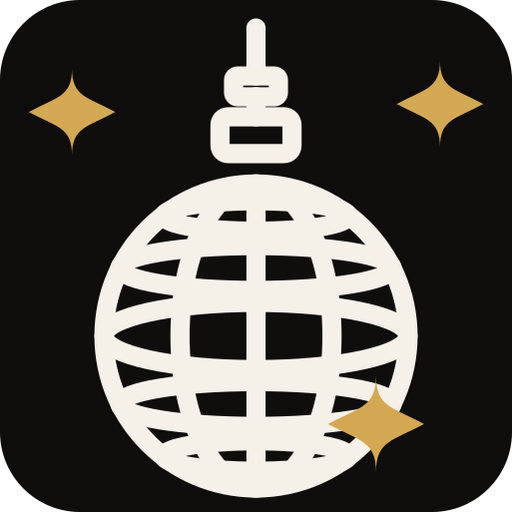
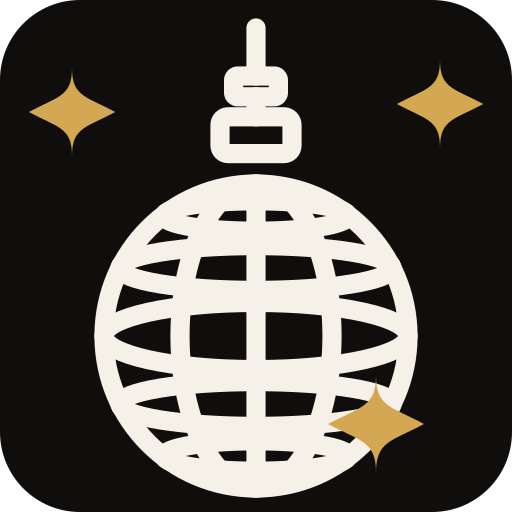
feat(acts): optional class, duration, and live SSE payloads
- Nullable Act.classId and optional duration (seconds); migrations drop priority column

- Order UI: duration on create/edit, acts without class shown as Sans cours

- APIs and public/live views include duration; smaller icon-512 asset

Changed region(s): [[0.4688, 0.3125, 0.5312, 0.3438], [0.5312, 0.4062, 0.5625, 0.4375], [0.4375, 0.4062, 0.4688, 0.4375]]

diff --git a/src/app/(app)/shows/[id]/order/OrderClient.tsx b/src/app/(app)/shows/[id]/order/OrderClient.tsx
@@ -21,6 +21,7 @@ import { CSS } from "@dnd-kit/utilities"
 import Alert from "@mui/material/Alert"
 import Box from "@mui/material/Box"
 import Button from "@mui/material/Button"
+import Chip from "@mui/material/Chip"
 import CircularProgress from "@mui/material/CircularProgress"
 import Divider from "@mui/material/Divider"
 import IconButton from "@mui/material/IconButton"
@@ -43,7 +44,7 @@ import FormDialog from "@/components/FormDialog"
 import { useEntityDialog } from "@/hooks/useEntityDialog"
 import type { Act, ActPosition, Class, Show, Teacher } from "@prisma/client"
 
-type ActWithClass = Act & { class: Class & { teacher: Teacher } }
+type ActWithClass = Act & { class: (Class & { teacher: Teacher }) | null }
 
 type ShowWithActs = Show & {
   acts: ActWithClass[]
@@ -55,7 +56,7 @@ interface Props {
   classes: Class[]
 }
 
-const emptyForm = { name: "", classId: "" }
+const emptyForm = { name: "", classId: "", durationMin: "", durationSec: "" }
 
 // Locked acts stay at their indices; unlocked acts flow around them.
 function applyDragWithLocks(
@@ -163,7 +164,7 @@ function SortableActRow({
         <Box>
           <Typography variant="body1">{act.name}</Typography>
           <Typography variant="caption" color="text.secondary">
-            {act.class.name} · {act.class.schedule} · {act.class.teacher.firstName} {act.class.teacher.lastName}
+            {act.class ? `${act.class.name} · ${act.class.schedule} · ${act.class.teacher.firstName} ${act.class.teacher.lastName}` : "Sans cours"}
           </Typography>
         </Box>
       </Box>
@@ -184,6 +185,12 @@ export default function OrderClient({ show, classes }: Props) {
   const [deleteError, setDeleteError] = useState<string | null>(null)
   const [deleteLoading, setDeleteLoading] = useState(false)
   const deleteDialog = useEntityDialog(show.acts)
+
+  // ---- Edit duration ----
+  const editDialog = useEntityDialog(show.acts)
+  const [editForm, setEditForm] = useState({ durationMin: "", durationSec: "" })
+  const [editError, setEditError] = useState<string | null>(null)
+  const [editLoading, setEditLoading] = useState(false)
 
   // ---- Order mode ----
   const [editMode, setEditMode] = useState(false)
@@ -237,6 +244,32 @@ export default function OrderClient({ show, classes }: Props) {
     setDeleteError(null)
   }
 
+  function openEdit(act: ActWithClass) {
+    editDialog.open(act)
+    setEditForm({
+      durationMin: act.duration != null ? String(Math.floor(act.duration / 60)) : "",
+      durationSec: act.duration != null ? String(act.duration % 60) : "",
+    })
+    setEditError(null)
+  }
+
+  async function handleEdit() {
+    setEditLoading(true)
+    setEditError(null)
+    const min = parseInt(editForm.durationMin || "0", 10)
+    const sec = parseInt(editForm.durationSec || "0", 10)
+    const duration = (min || sec) ? min * 60 + sec : null
+    const res = await fetch(`/api/shows/${show.id}/acts/${editDialog.selected!.id}`, {
+      method: "PATCH",
+      headers: { "Content-Type": "application/json" },
+      body: JSON.stringify({ duration }),
+    })
+    if (!res.ok) { setEditError("Erreur lors de la modification"); setEditLoading(false); return }
+    setEditLoading(false)
+    editDialog.close()
+    router.refresh()
+  }
+
   async function handleDelete() {
     if (!deleteDialog.selected) return
     setDeleteError(null)
@@ -256,10 +289,17 @@ export default function OrderClient({ show, classes }: Props) {
     e.preventDefault()
     setCreateError(null)
     setCreateLoading(true)
+    const min = parseInt(createForm.durationMin || "0", 10)
+    const sec = parseInt(createForm.durationSec || "0", 10)
+    const duration = (min || sec) ? min * 60 + sec : null
     const res = await fetch(`/api/shows/${show.id}/acts`, {
       method: "POST",
       headers: { "Content-Type": "application/json" },
-      body: JSON.stringify(createForm),
+      body: JSON.stringify({
+        name: createForm.name,
+        classId: createForm.classId || null,
+        duration,
+      }),
     })
     setCreateLoading(false)
     if (res.status === 201) {
@@ -523,12 +563,31 @@ export default function OrderClient({ show, classes }: Props) {
                 <Box>
                   <Typography variant="body1">{act.name}</Typography>
                   <Typography variant="caption" color="text.secondary">
-                    {act.class.name} · {act.class.schedule} · {act.class.teacher.firstName}{" "}
-                    {act.class.teacher.lastName}
+                    {act.class ? `${act.class.name} · ${act.class.schedule} · ${act.class.teacher.firstName} ${act.class.teacher.lastName}` : "Sans cours"}
                   </Typography>
                 </Box>
               </Box>
-              <Box sx={{ display: "flex", gap: 1 }}>
+              <Box sx={{ display: "flex", alignItems: "center", gap: 1 }}>
+                {act.duration != null && (
+                  <Chip
+                    label={`${Math.floor(act.duration / 60)}:${String(act.duration % 60).padStart(2, "0")}`}
+                    size="small"
+                    variant="outlined"
+                    sx={{
+                      borderColor: "rgba(212,168,83,0.35)",
+                      color: "primary.main",
+                      fontSize: "0.7rem",
+                      fontVariantNumeric: "tabular-nums",
+                      letterSpacing: "0.06em",
+                      height: 22,
+                    }}
+                  />
+                )}
+                <Tooltip title="Modifier la durée">
+                  <IconButton size="small" onClick={() => openEdit(act)}>
+                    <EditIcon fontSize="small" />
+                  </IconButton>
+                </Tooltip>
                 <Tooltip title="Supprimer">
                   <IconButton size="small" onClick={() => openDelete(act)}>
                     <DeleteIcon fontSize="small" />
@@ -564,16 +623,74 @@ export default function OrderClient({ show, classes }: Props) {
             label="Cours"
             value={createForm.classId}
             onChange={(e) => setCreateForm({ ...createForm, classId: e.target.value })}
-            required
             fullWidth
             size="small"
           >
+            <MenuItem value="">Sans cours</MenuItem>
             {classes.map((c) => (
               <MenuItem key={c.id} value={c.id}>
                 {c.name} · {c.schedule}
               </MenuItem>
             ))}
           </TextField>
+          <Box sx={{ display: "flex", alignItems: "center", gap: 1 }}>
+            <TextField
+              label="Durée — min"
+              type="number"
+              value={createForm.durationMin}
+              onChange={(e) => setCreateForm({ ...createForm, durationMin: e.target.value })}
+              size="small"
+              slotProps={{ htmlInput: { min: 0 } }}
+              sx={{ flex: 1 }}
+            />
+            <Typography color="text.secondary" sx={{ fontSize: "1.4rem", fontWeight: 300, lineHeight: 1, pt: "2px" }}>
+              :
+            </Typography>
+            <TextField
+              label="sec"
+              type="number"
+              value={createForm.durationSec}
+              onChange={(e) => setCreateForm({ ...createForm, durationSec: e.target.value })}
+              size="small"
+              slotProps={{ htmlInput: { min: 0, max: 59 } }}
+              sx={{ width: 90 }}
+            />
+          </Box>
+        </Box>
+      </FormDialog>
+
+      <FormDialog
+        open={!!editDialog.selected}
+        title="Durée du tableau"
+        submitLabel="Enregistrer"
+        loading={editLoading}
+        error={editError}
+        onClose={editDialog.close}
+        onSubmit={handleEdit}
+      >
+        <Box sx={{ display: "flex", alignItems: "center", gap: 1 }}>
+          <TextField
+            label="Min"
+            type="number"
+            value={editForm.durationMin}
+            onChange={(e) => setEditForm({ ...editForm, durationMin: e.target.value })}
+            size="small"
+            slotProps={{ htmlInput: { min: 0 } }}
+            sx={{ width: 90 }}
+            autoFocus
+          />
+          <Typography color="text.secondary" sx={{ fontSize: "1.4rem", fontWeight: 300, lineHeight: 1, pt: "2px" }}>
+            :
+          </Typography>
+          <TextField
+            label="Sec"
+            type="number"
+            value={editForm.durationSec}
+            onChange={(e) => setEditForm({ ...editForm, durationSec: e.target.value })}
+            size="small"
+            slotProps={{ htmlInput: { min: 0, max: 59 } }}
+            sx={{ width: 90 }}
+          />
         </Box>
       </FormDialog>
 

diff --git a/src/app/(public)/s/[slug]/ShowPublicClient.tsx b/src/app/(public)/s/[slug]/ShowPublicClient.tsx
@@ -10,8 +10,8 @@ interface Act {
   id: string
   name: string
   position: number
-  className: string
-  teacherName: string
+  className: string | null
+  teacherName: string | null
 }
 
 interface SSEPayload {
@@ -124,7 +124,7 @@ export default function ShowPublicClient({ initialActs, currentPosition: initial
                   <Box>
                     <Typography variant="body1">{act.name}</Typography>
                     <Typography variant="caption" color="text.secondary">
-                      {act.className} · {act.teacherName}
+                      {act.className ? `${act.className} · ${act.teacherName}` : "Sans cours"}
                     </Typography>
                   </Box>
                   {isCurrent && (

diff --git a/src/app/(app)/shows/[id]/live/LiveClient.tsx b/src/app/(app)/shows/[id]/live/LiveClient.tsx
@@ -22,8 +22,8 @@ interface Act {
   id: string
   name: string
   position: number
-  className: string
-  teacherName: string
+  className: string | null
+  teacherName: string | null
 }
 
 interface Props {
@@ -194,7 +194,7 @@ export default function LiveClient({ showId, showName, currentPosition: initialP
                   <Box>
                     <Typography variant="body1">{act.name}</Typography>
                     <Typography variant="caption" color="text.secondary">
-                      {act.className} · {act.teacherName}
+                      {act.className ? `${act.className} · ${act.teacherName}` : "Sans cours"}
                     </Typography>
                   </Box>
                   {isCurrent && (

diff --git a/src/app/api/shows/[id]/acts/route.ts b/src/app/api/shows/[id]/acts/route.ts
@@ -23,10 +23,10 @@ export async function POST(req: NextRequest, { params }: Params) {
   if (!session) return NextResponse.json({ error: "Unauthorized" }, { status: 401 })
 
   const { id: showId } = await params
-  const { name, classId, fixedPosition } = await req.json()
+  const { name, classId, fixedPosition, duration } = await req.json()
 
   const act = await prisma.act.create({
-    data: { name, classId, showId, fixedPosition },
+    data: { name, classId, showId, fixedPosition, duration },
   })
 
   return NextResponse.json({ data: act }, { status: 201 })

diff --git a/src/app/api/shows/[id]/current-act/route.ts b/src/app/api/shows/[id]/current-act/route.ts
@@ -26,8 +26,10 @@ export async function PATCH(req: NextRequest, { params }: { params: Promise<{ id
       id: ap.actId,
       name: ap.act.name,
       position: ap.position,
-      className: ap.act.class.name,
-      teacherName: `${ap.act.class.teacher.firstName} ${ap.act.class.teacher.lastName}`,
+      className: ap.act.class?.name ?? null,
+      teacherName: ap.act.class
+        ? `${ap.act.class.teacher.firstName} ${ap.act.class.teacher.lastName}`
+        : null,
     })),
     currentPosition: show.currentPosition,
   })

diff --git a/src/app/api/public/shows/[slug]/stream/route.ts b/src/app/api/public/shows/[slug]/stream/route.ts
@@ -26,8 +26,10 @@ export async function GET(req: NextRequest, { params }: { params: Promise<{ slug
       id: ap.actId,
       name: ap.act.name,
       position: ap.position,
-      className: ap.act.class.name,
-      teacherName: `${ap.act.class.teacher.firstName} ${ap.act.class.teacher.lastName}`,
+      className: ap.act.class?.name ?? null,
+      teacherName: ap.act.class
+        ? `${ap.act.class.teacher.firstName} ${ap.act.class.teacher.lastName}`
+        : null,
     })),
     currentPosition: show.currentPosition,
   }

diff --git a/src/app/api/shows/[id]/order/route.ts b/src/app/api/shows/[id]/order/route.ts
@@ -49,8 +49,10 @@ export async function PUT(req: NextRequest, { params }: Params) {
       id: p.actId,
       name: p.act.name,
       position: p.position,
-      className: p.act.class.name,
-      teacherName: `${p.act.class.teacher.firstName} ${p.act.class.teacher.lastName}`,
+      className: p.act.class?.name ?? null,
+      teacherName: p.act.class
+        ? `${p.act.class.teacher.firstName} ${p.act.class.teacher.lastName}`
+        : null,
     })),
     currentPosition: show?.currentPosition ?? null,
   })

diff --git a/src/app/(public)/s/[slug]/page.tsx b/src/app/(public)/s/[slug]/page.tsx
@@ -29,8 +29,10 @@ export default async function PublicShowPage({ params }: Props) {
     id: ap.actId,
     name: ap.act.name,
     position: ap.position,
-    className: ap.act.class.name,
-    teacherName: `${ap.act.class.teacher.firstName} ${ap.act.class.teacher.lastName}`,
+    className: ap.act.class?.name ?? null,
+    teacherName: ap.act.class
+      ? `${ap.act.class.teacher.firstName} ${ap.act.class.teacher.lastName}`
+      : null,
   }))
 
   return (

diff --git a/src/app/(app)/shows/[id]/live/page.tsx b/src/app/(app)/shows/[id]/live/page.tsx
@@ -28,8 +28,10 @@ export default async function LivePage({ params }: Props) {
     id: ap.actId,
     name: ap.act.name,
     position: ap.position,
-    className: ap.act.class.name,
-    teacherName: `${ap.act.class.teacher.firstName} ${ap.act.class.teacher.lastName}`,
+    className: ap.act.class?.name ?? null,
+    teacherName: ap.act.class
+      ? `${ap.act.class.teacher.firstName} ${ap.act.class.teacher.lastName}`
+      : null,
   }))
 
   return (

diff --git a/src/lib/sse-emitter.ts b/src/lib/sse-emitter.ts
@@ -8,7 +8,7 @@ showEmitter.setMaxListeners(200)
 if (process.env.NODE_ENV !== "production") g.showEmitter = showEmitter
 
 export type ShowPayload = {
-  acts: { id: string; name: string; position: number; className: string; teacherName: string }[]
+  acts: { id: string; name: string; position: number; className: string | null; teacherName: string | null }[]
   currentPosition: number | null
 }
 
